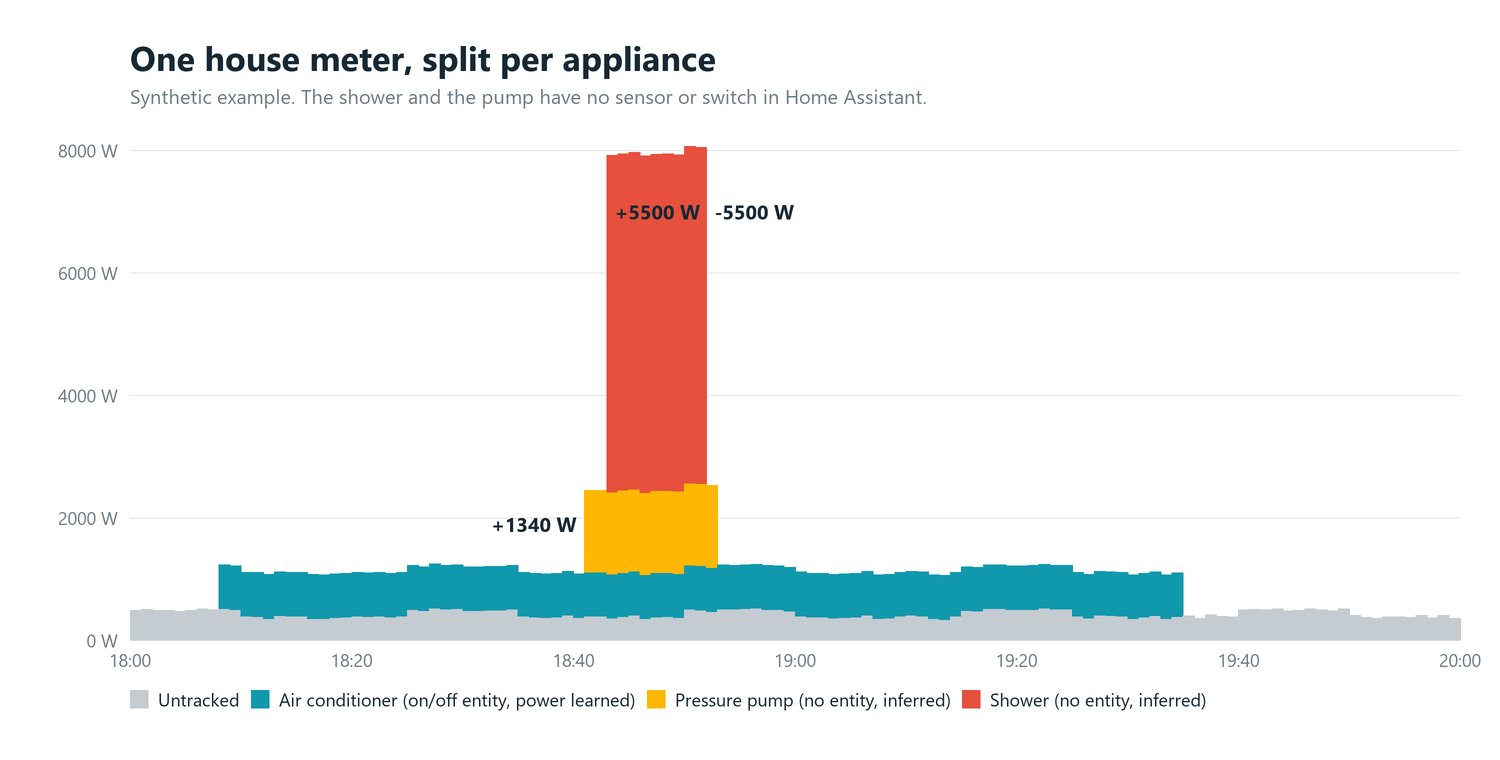
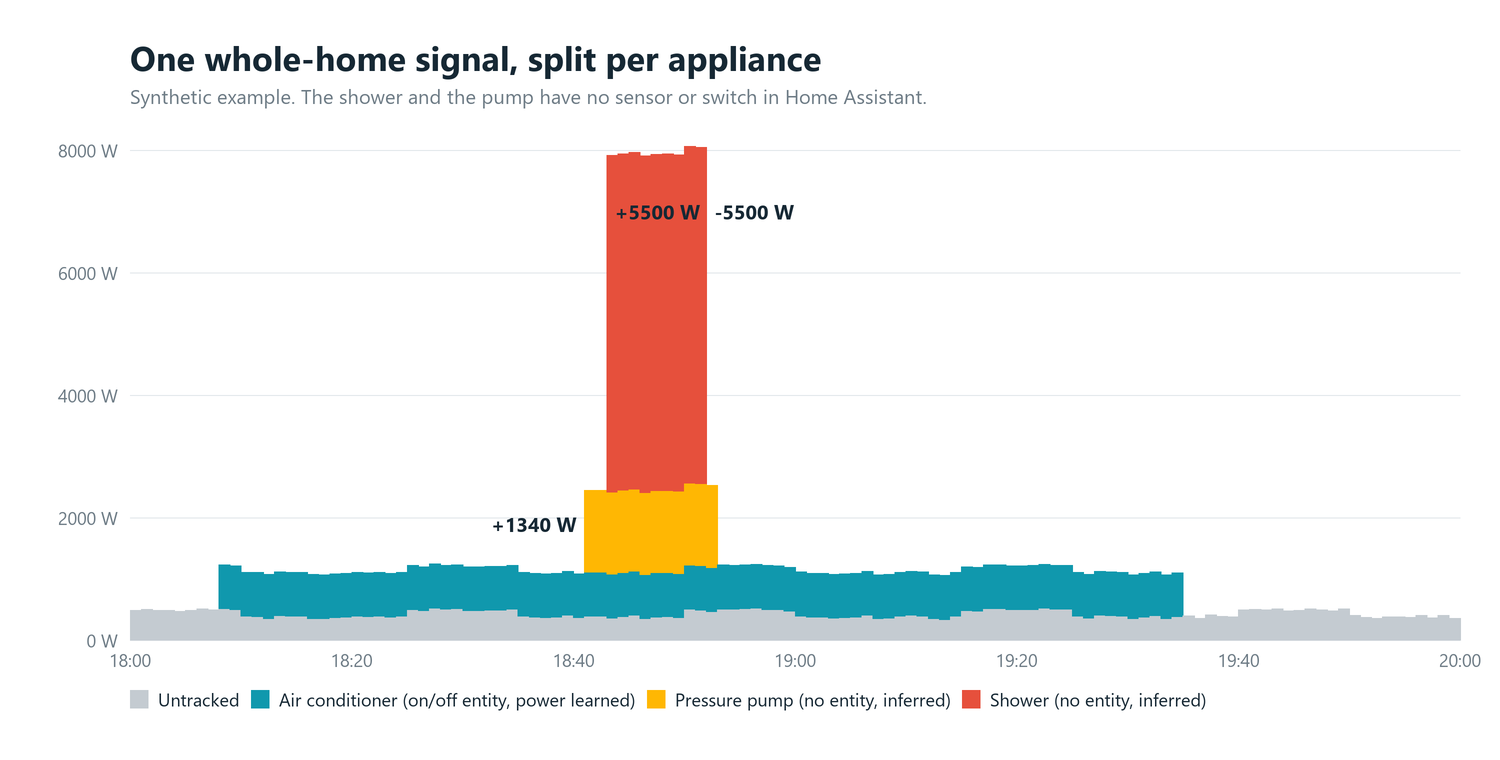
Say whole-home power signal instead of house meter

Changed region(s): [[0.1227, 0.0605, 0.552, 0.1211]]

diff --git a/custom_components/wattsplit/const.py b/custom_components/wattsplit/const.py
@@ -10,9 +10,9 @@ SUBENTRY_APPLIANCE = "appliance"
 CONF_GRID = "grid_entity"
 CONF_SOLAR = "solar_entity"
 CONF_BATTERY = "battery_entity"
-CONF_HOUSE = "house_entity"  # a ready-made whole-house consumption sensor
+CONF_HOUSE = "house_entity"  # a ready-made whole-home consumption sensor
 CONF_INVERT_GRID = "invert_grid"
-CONF_LOADS = "load_entities"  # per-phase / per-circuit / whole-house load sensors
+CONF_LOADS = "load_entities"  # per-phase / per-circuit / whole-home load sensors
 CONF_GENERATION = "generation_entities"  # solar inverters, generators
 
 # Main entry options.

diff --git a/custom_components/wattsplit/engine/validation.py b/custom_components/wattsplit/engine/validation.py
@@ -2,7 +2,7 @@
 
 An appliance with both an on/off entity and a power sensor is ground truth. The
 engine is run on it a second time *as if the power sensor did not exist*: a
-shadow device learns its power from the whole-house channels around its state
+shadow device learns its power from the whole-home channels around its state
 changes, exactly like an unmetered appliance would, while a second shadow
 measures the same thing from the real sensor. Comparing the two gives an
 accuracy figure that comes from the user's own house, not from a benchmark.

diff --git a/custom_components/wattsplit/sensor.py b/custom_components/wattsplit/sensor.py
@@ -191,7 +191,7 @@ class AccuracyCheckSensor(GlobalEntity, SensorEntity):
 
     Two kinds of ground truth, both reported as a percentage and averaged:
     an appliance with a real power sensor is re-run as if the sensor did not
-    exist; an appliance with an energy counter has what the whole-house
+    exist; an appliance with an energy counter has what the whole-home
     channels say compared with what its own counter says. The state is the mean
     absolute difference in percent; the attributes list each appliance.
     """

diff --git a/custom_components/wattsplit/engine/counter.py b/custom_components/wattsplit/engine/counter.py
@@ -11,7 +11,7 @@ updates. Combined with how long it was on in that time, it gives its power:
 Summed over many intervals this is a ratio estimator that does not care about
 the rest of the house. It is the appliance's own figure, so it is only as good as
 the appliance's own metering, and it is used as a starting point and a
-cross-check for what the whole-house channels say.
+cross-check for what the whole-home channels say.
 """
 
 from __future__ import annotations

diff --git a/scripts/make_overview.py b/scripts/make_overview.py
@@ -61,7 +61,7 @@ def main() -> None:
     def py(w: float) -> float:
         return y1 - (y1 - y0) * w / top_w
 
-    d.text((LEFT * SS, 34 * SS), "One house meter, split per appliance", font=font(34, True), fill=INK)
+    d.text((LEFT * SS, 34 * SS), "One whole-home signal, split per appliance", font=font(34, True), fill=INK)
     d.text(
         (LEFT * SS, 82 * SS),
         "Synthetic example. The shower and the pump have no sensor or switch in Home Assistant.",

diff --git a/custom_components/wattsplit/engine/devices.py b/custom_components/wattsplit/engine/devices.py
@@ -360,7 +360,7 @@ class StateDevice:
         return "learned_from_state"
 
     def cross_check(self) -> dict | None:
-        """Compare what the whole-house channels say with the energy counter.
+        """Compare what the whole-home channels say with the energy counter.
 
         Both are independent measurements of the same appliance; agreement is
         evidence for each, divergence says one of them is wrong here. When no

diff --git a/custom_components/wattsplit/engine/disaggregator.py b/custom_components/wattsplit/engine/disaggregator.py
@@ -198,7 +198,7 @@ class Disaggregator:
             dev.add_counter(ts, value_wh)
 
     def cross_checks(self) -> dict[str, dict]:
-        """Per appliance, whole-house channels versus its own energy counter."""
+        """Per appliance, whole-home channels versus its own energy counter."""
         return {k: c for k, v in self._state.items() if (c := v.cross_check())}
 
     def apply_toggle(self, toggle: Toggle) -> None:

diff --git a/custom_components/wattsplit/engine/detector.py b/custom_components/wattsplit/engine/detector.py
@@ -95,7 +95,7 @@ class StepDetector:
 
 
 class MultiChannelDetector:
-    """One :class:`StepDetector` per channel, merged into whole-house edges.
+    """One :class:`StepDetector` per channel, merged into whole-home edges.
 
     A load that spans several channels (a 220 V shower across two phases)
     steps each of them within a few seconds. Significant per-channel steps

diff --git a/custom_components/wattsplit/engine/plan.py b/custom_components/wattsplit/engine/plan.py
@@ -20,7 +20,7 @@ are read and used:
     Positive when discharging into the house, negative when charging.
     Evidence only.
 
-``house`` is an optional ready-made whole-house consumption sensor.
+``house`` is an optional ready-made whole-home consumption sensor.
 
 Everything here is plain Python so it is tested without Home Assistant.
 """

diff --git a/custom_components/wattsplit/__init__.py b/custom_components/wattsplit/__init__.py
@@ -1,4 +1,4 @@
-"""WattSplit: per-appliance power inferred from whole-house consumption."""
+"""WattSplit: per-appliance power inferred from whole-home consumption."""
 
 from __future__ import annotations
 

diff --git a/custom_components/wattsplit/engine/composer.py b/custom_components/wattsplit/engine/composer.py
@@ -1,4 +1,4 @@
-"""Build the whole-house consumption signal from the user's meters."""
+"""Build the whole-home consumption signal from the user's meters."""
 
 from __future__ import annotations
 

diff --git a/docs/ARCHITECTURE.md b/docs/ARCHITECTURE.md
@@ -2,7 +2,7 @@
 
 WattSplit estimates **how much power individual appliances draw, and when they
 switch on and off**, using the one signal almost every Home Assistant energy
-setup already has: whole-house consumption. It splits the house meter into
+setup already has: whole-home consumption. It splits the whole-home signal into
 per-appliance virtual sub-meters.
 
 ## 1. Problem and scope
@@ -96,7 +96,7 @@ decides how its readings are read and used (`engine/plan.py`, pure Python):
 
 | Role | Meaning | Used for |
 |------|---------|----------|
-| `house` | a ready-made whole-house consumption sensor | the whole-house value; one detection channel |
+| `house` | a ready-made whole-home consumption sensor | the whole-home value; one detection channel |
 | `grid` | net power at the utility connection (import +, export −) | detection; part of rebuilt consumption |
 | `load` | power consumed on a phase, a circuit or the whole house | detection, each one its own channel |
 | `generation` | solar inverters, generators (positive when producing) | rebuilt consumption; **evidence only** |
@@ -111,7 +111,7 @@ otherwise they stay evidence. Several of any role are fine.
 
 | Your setup | Configure | What happens |
 |------------|-----------|--------------|
-| One whole-house sensor | `house` | one channel: step consensus; channel means only if the signal is quiet; otherwise an honest "don't know yet" |
+| One whole-home sensor | `house` | one channel: step consensus; channel means only if the signal is quiet; otherwise an honest "don't know yet" |
 | Utility meter + one or more inverters (+ battery) | `grid` + `generation` (+ `battery`) | steps on the grid meter; every inverter and the battery are judged per appliance and their shares added |
 | Per-phase / per-circuit load sensors | `load` | every sensor its own channel; a quiet one isolates small appliances |
 | Two utility meters, a sub-board | several `grid` | each its own channel |
@@ -155,7 +155,7 @@ actually tested on.
 Accuracy is not asserted, it is measured on the user's own house. Any appliance
 that has **both an on/off entity and a power sensor** is ground truth. The
 engine is run on it a second time as if the sensor did not exist (a shadow
-`StateDevice` learns from the whole-house channels around its state changes,
+`StateDevice` learns from the whole-home channels around its state changes,
 another measures the same thing from the real sensor, with identical windows)
 and the `Accuracy check` sensor reports the mean absolute error in percent,
 with per-appliance detail (estimate, truth, error, confidence, toggles, which
@@ -183,7 +183,7 @@ is a rollover (daily or monthly counter) and drops that interval; below 10 W the
 counter is not measuring a running device. Confidence grows with the number of
 usable intervals, the hours of on-time, and shrinks with the scatter between
 intervals. A conclusive counter estimate takes precedence over what the
-whole-house channels say, and the two are **cross-checked**: the `Accuracy check`
+whole-home channels say, and the two are **cross-checked**: the `Accuracy check`
 sensor also reports how far each appliance's channel estimate is from its own
 counter. Source label: `learned_from_counter`.
 
